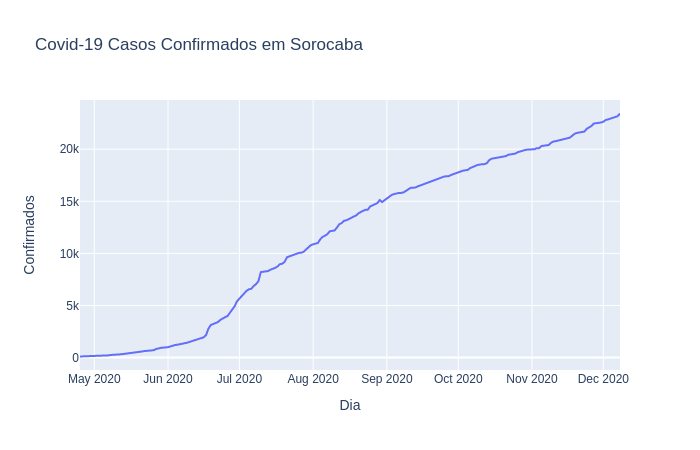
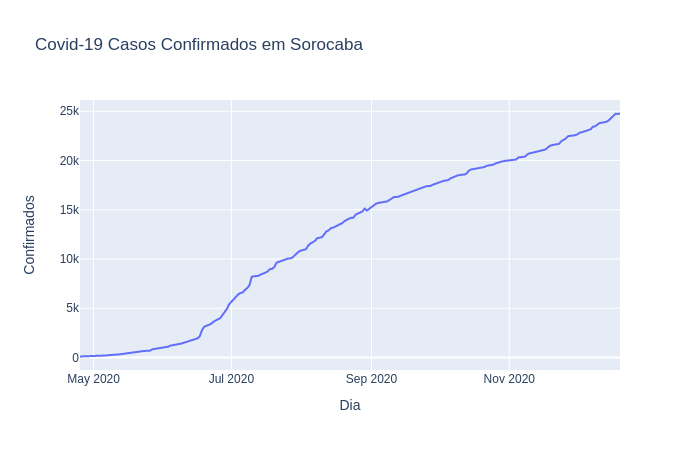
dados atualizados 20/12

diff --git a/README.md b/README.md
@@ -1,10 +1,10 @@
 ## Dados divulgados pela Prefeitura de Sorocaba sobre os casos de Covid-19
-### última atualização: 08/12/2020
+### última atualização: 20/12/2020
 
 Há uma planilha com os dados retirados das imagens divulgadas [AQUI](https://github.com/lucas-koiti/covid19-sorocaba/blob/master/dados/planilha_csv/dados.csv).
 
 ### Taxa de Letalidade
-2.17% 
+2.16% 
 
 ## Gráfico de casos confirmados.
 <img src= "confirmados.png">
